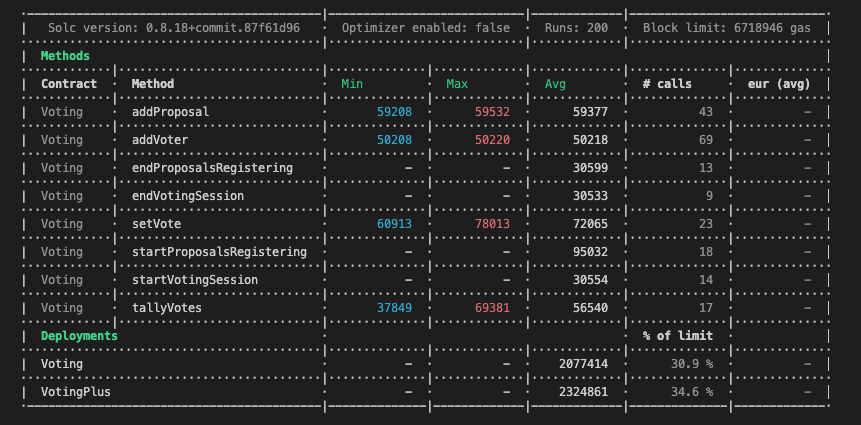
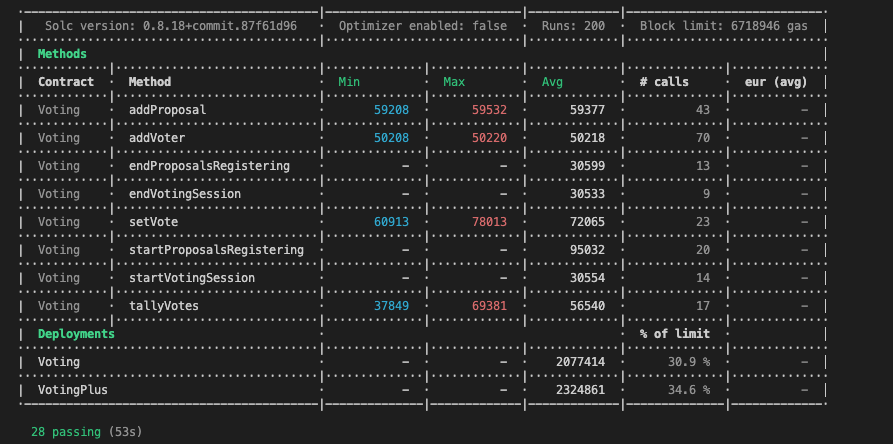
Feat: codeCoverage from hardhat + fix 100%

Changed region(s): [[0.0, 0.0, 0.9663, 1.0], [0.9059, 0.7341, 0.9663, 0.7647]]

diff --git a/test/votingTest.js b/test/votingTest.js
@@ -484,6 +484,28 @@ contract('Voting', accounts => {
         expectEvent(tx, 'WorkflowStatusChange', { previousStatus: new BN(4), newStatus: new BN(5) });
       });
     });
+    describe('Management states check require on status', () => {
+      it('check each status is checked on states management functions', async () => {
+        await expectRevert(
+          VotingInstance.endProposalsRegistering({ from: _owner }),
+          'Registering proposals havent started yet',
+        );
+        await expectRevert(
+          VotingInstance.startVotingSession({ from: _owner }),
+          'Registering proposals phase is not finished',
+        );
+        await expectRevert(VotingInstance.endVotingSession({ from: _owner }), 'Voting session havent started yet');
+        await expectRevert(VotingInstance.tallyVotes({ from: _owner }), 'Current status is not voting session ended');
+
+        let tx = await VotingInstance.startProposalsRegistering({ from: _owner });
+        expectEvent(tx, 'WorkflowStatusChange', { previousStatus: new BN(0), newStatus: new BN(1) });
+
+        await expectRevert(
+          VotingInstance.startProposalsRegistering({ from: _owner }),
+          'Registering proposals cant be started now',
+        );
+      });
+    });
   });
 
   /**

diff --git a/Readme.md b/Readme.md
@@ -12,10 +12,14 @@ Vous devez alors fournir les tests unitaires de votre smart contract Nous n’at
 
 
 - CI intégrée sur github pages
-- Couverture de code je pense complète. Il ne me reste plus qu'a l'intégrer dans Hardat pour le rapatrier.
+- Couverture de code 100% réalisée sur un projet hardhat.
+  
+Ce qui m'a permis d'ailleurs de déceller que j'avais oublié 4 test de require. Code Coverage 100%, line 100% mais Branch 92%. (bizare de ne pas avoir eu un code coverage <100%...)
 
 
 Au vu de la structure des fonctions (modifier et require) j'ai commencé par verifier toutes les permissions et droits en testant tous les cas qui doivent échouer avant de tester le cas fonctionnel avec verification de l'emission de l'event et des modifications des variables associées
+
+Tous les tests ont été mis dans un seul fichier comme demmandé. En vrai, j'aurai peut être découpé en Permissions / Droits / Workflow pour plus de lisibilité
 
 <br>
 
@@ -63,6 +67,9 @@ Au vu de la structure des fonctions (modifier et require) j'ai commencé par ver
 ### Emission des Evenements
 - vérification de l'émission d'évènement à chaque changement d'état
 
+### Verification des status des Evenements
+- vérification d status courant dans les changements de status 
+  
 ## test fonctionnels
 - verification d'un scénario avec plusieurs voters ou l'owner n'est pas voter et verification du gagnant
 - scénario similaire avec le owner voter
@@ -78,5 +85,6 @@ Au vu de la structure des fonctions (modifier et require) j'ai commencé par ver
 
 
 ## Coverage
-TODO integrate coverage
+Mise en place du codeCoverage du fichier dans un projet Hardhat
+![Screenshot Code Coverage](Documentation/code_coverage_hardhat.png)
 
